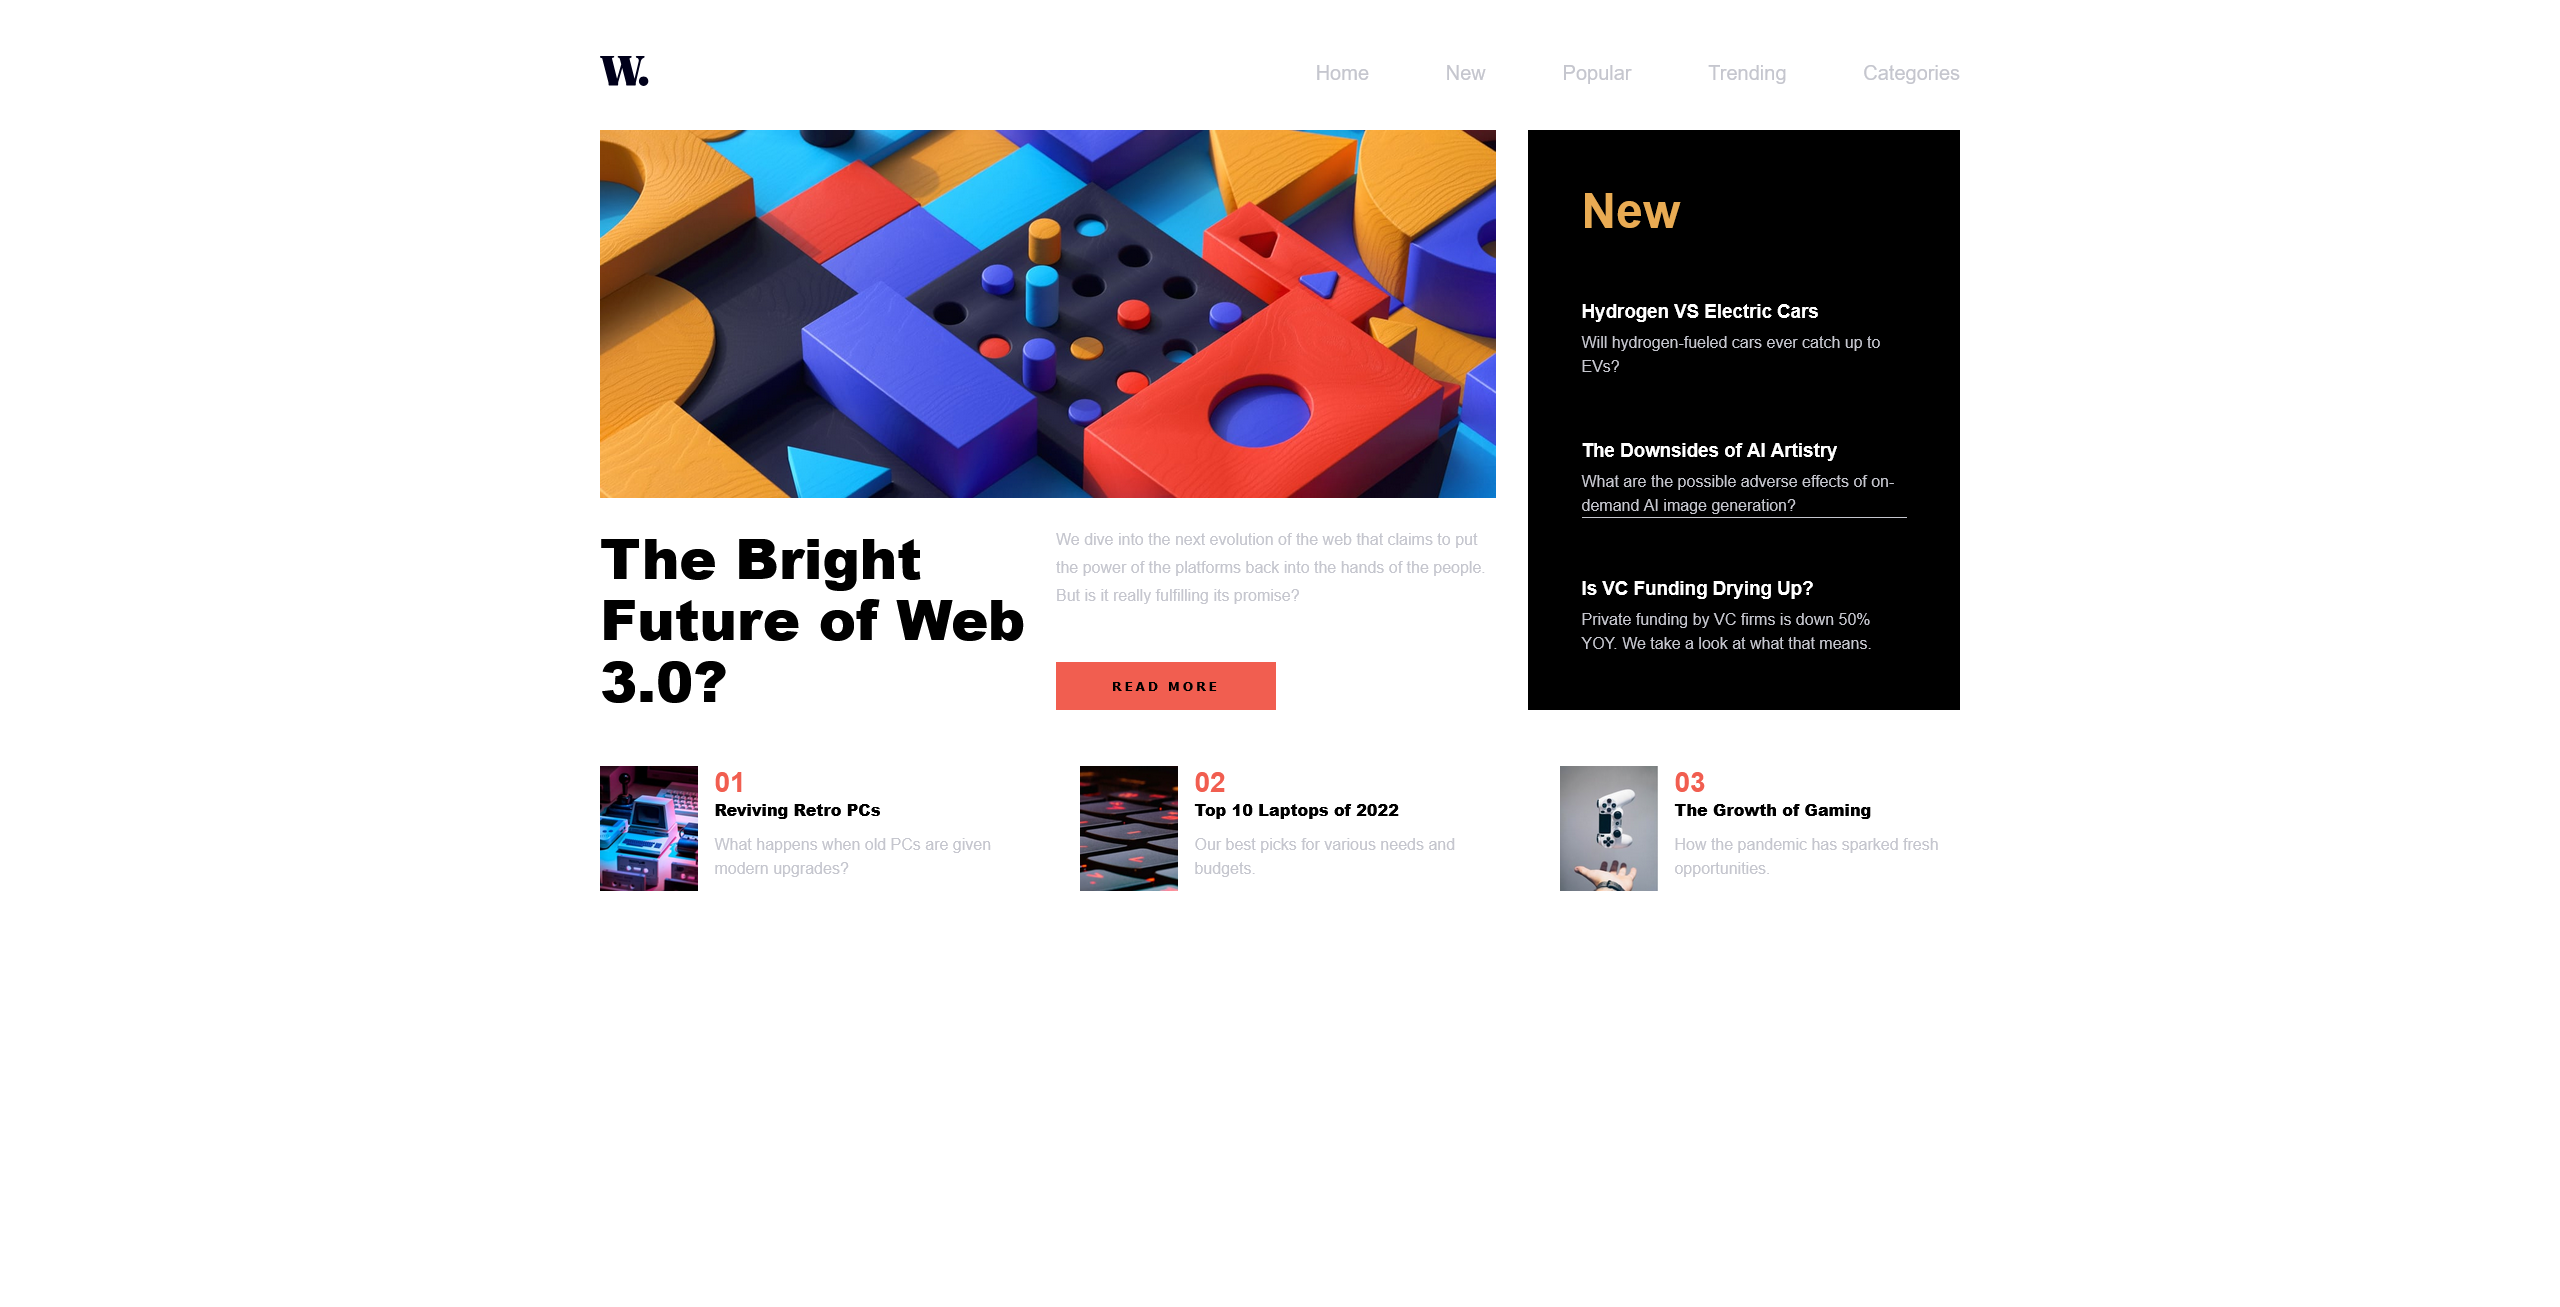
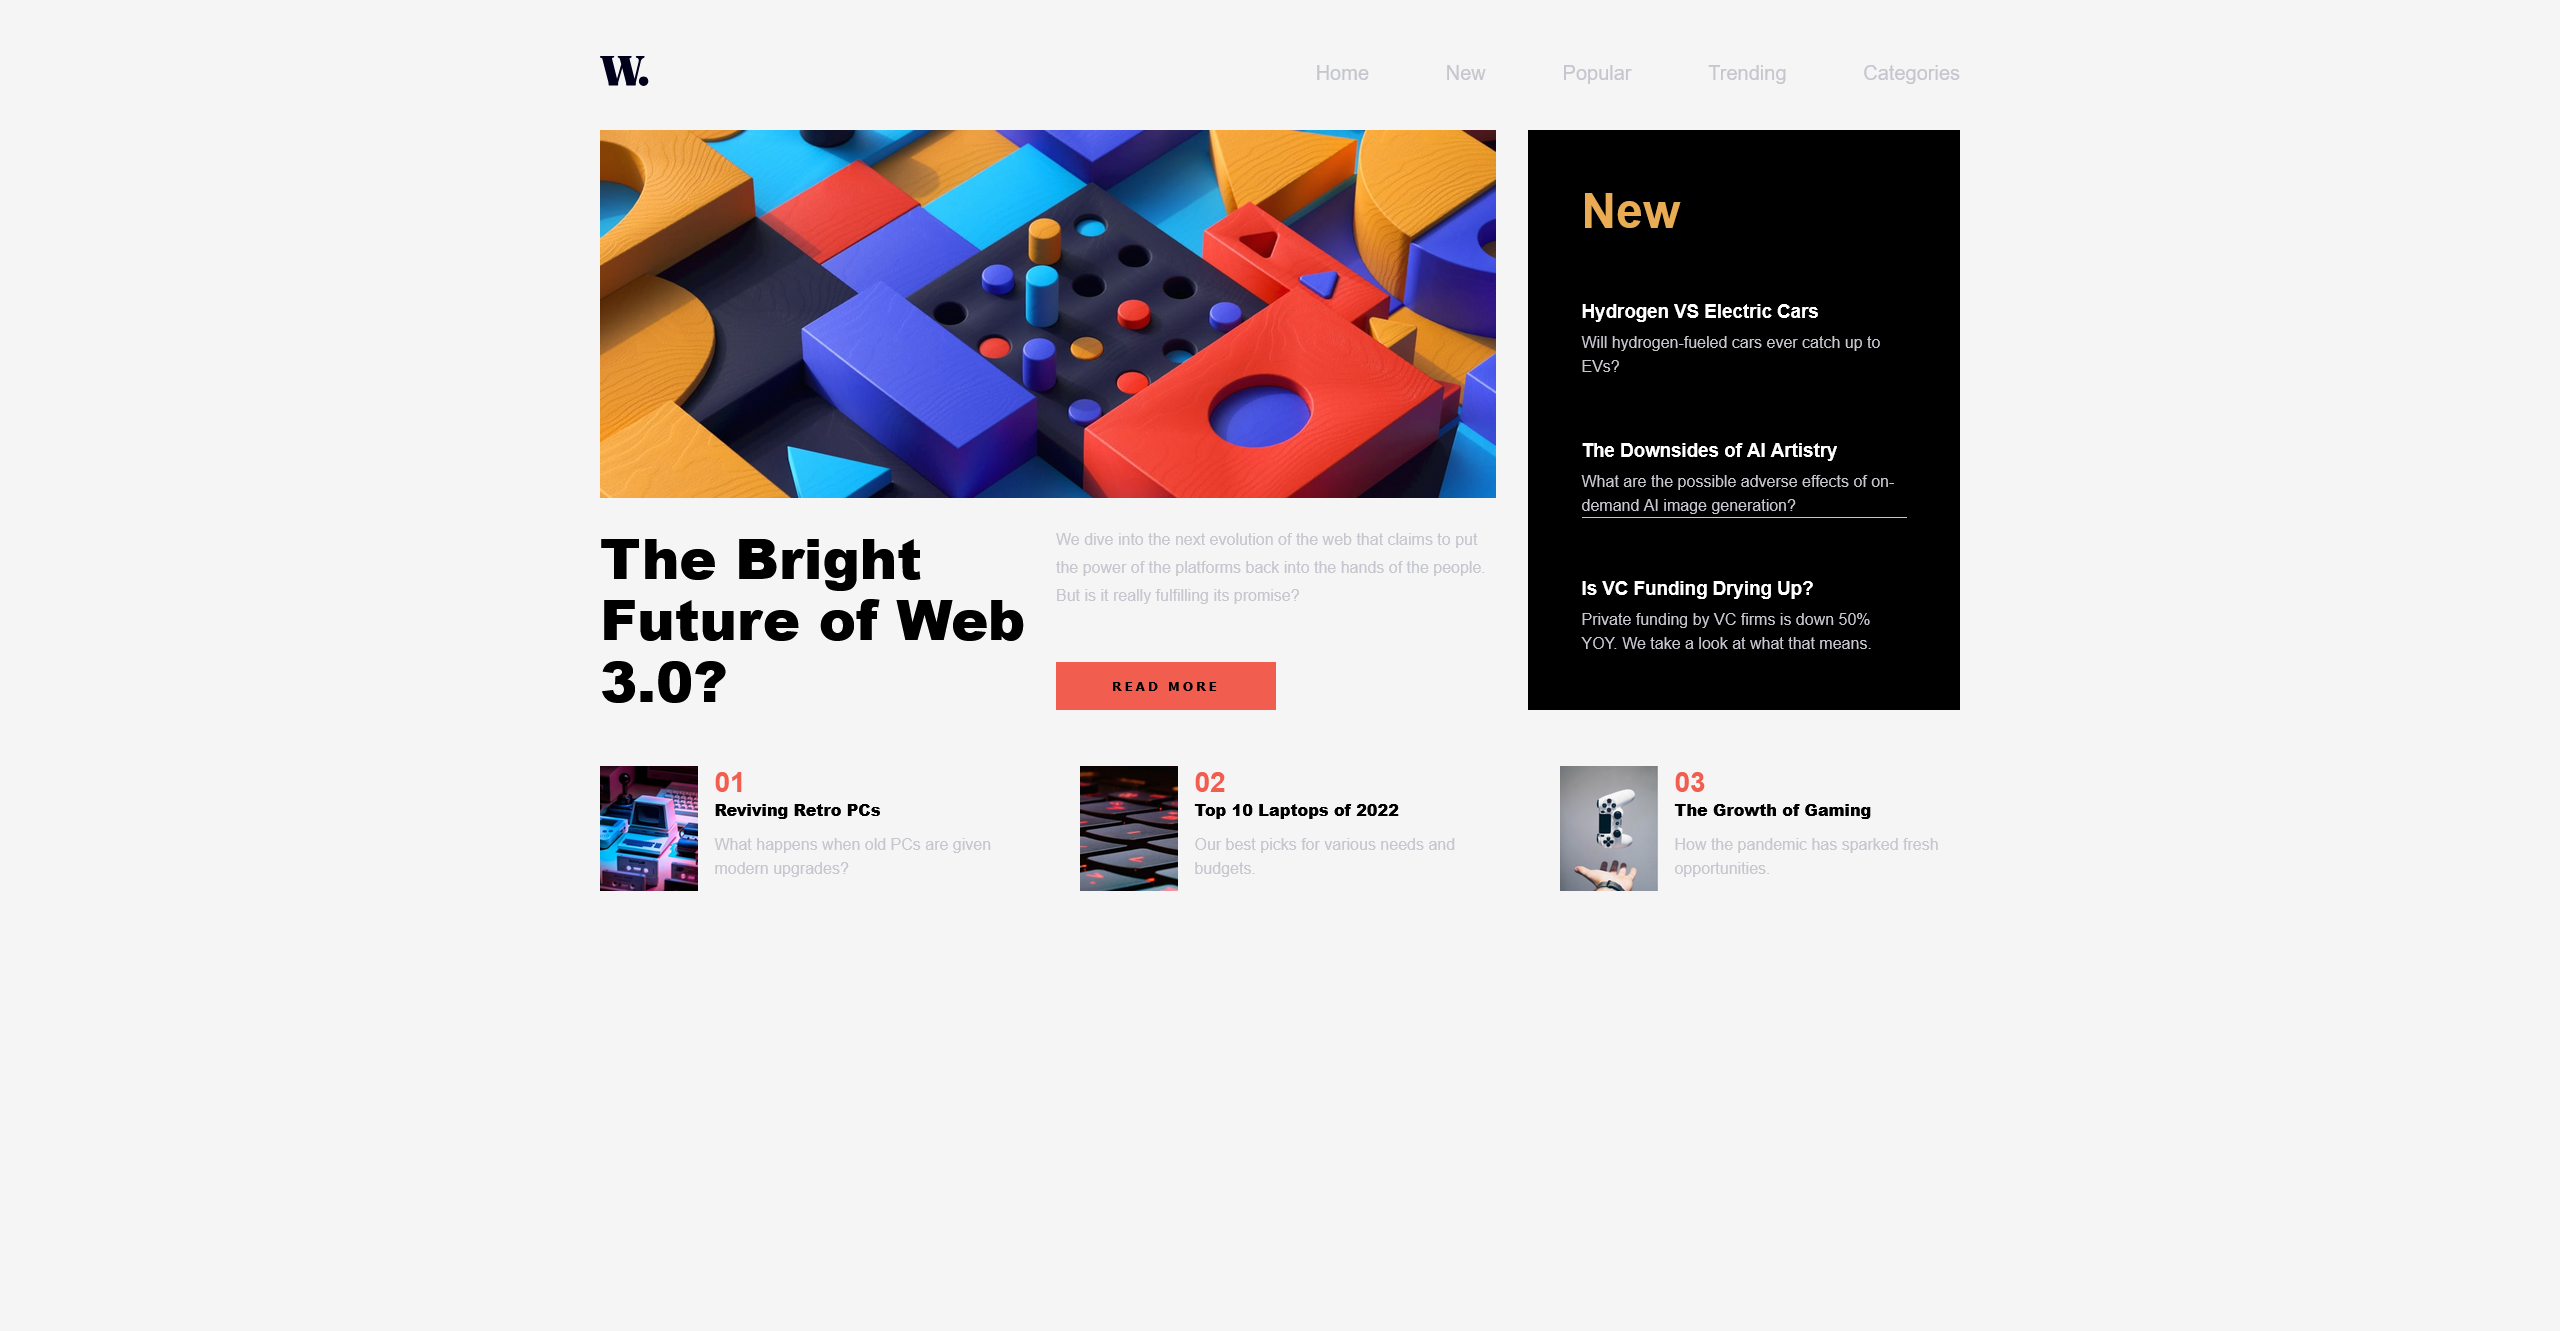
Update READMI file, change photos background colour

diff --git a/README.md b/README.md
@@ -23,11 +23,14 @@ Users should be able to:
 
 ### Screenshot
 
-![Desktop design](./screenshots/desktop.png)
+  #### Desktop design
+  ![Desktop design](./screenshots/desktop.png)
 
-![Mobile design](./screenshots/mobile.png)
+  #### Mobile design
+  ![Mobile design](./screenshots/mobile.png)
 
-![Side menu](./screenshots/side_menu.png)
+  #### Side menu
+  ![Side menu](./screenshots/side_menu.png)
 
 ### Links
 
